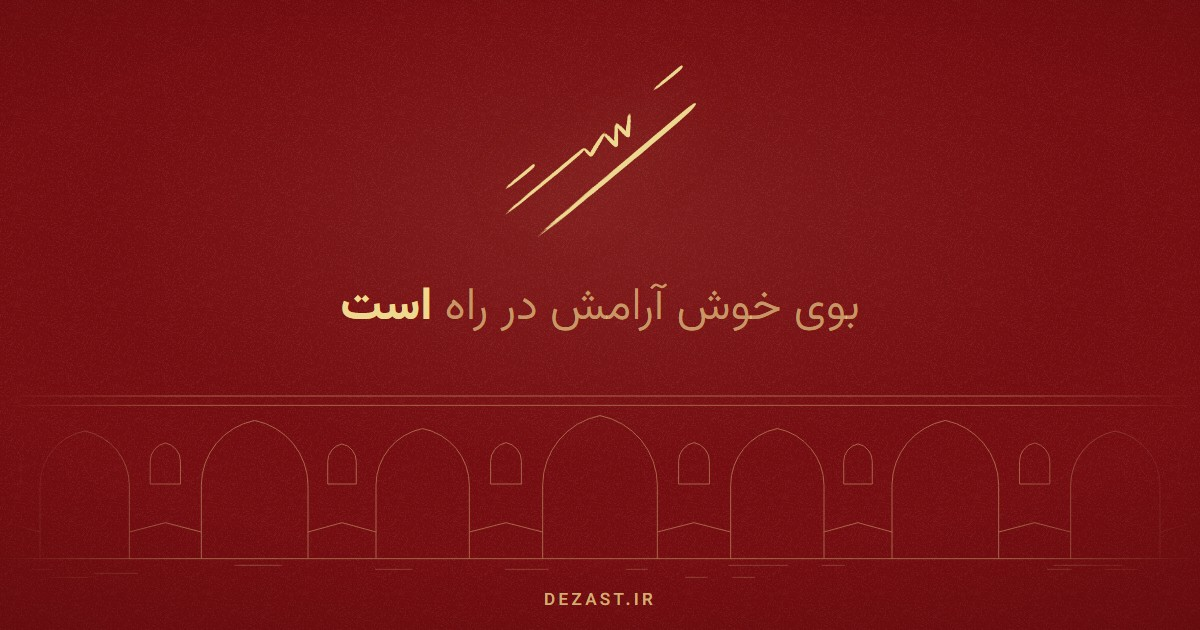
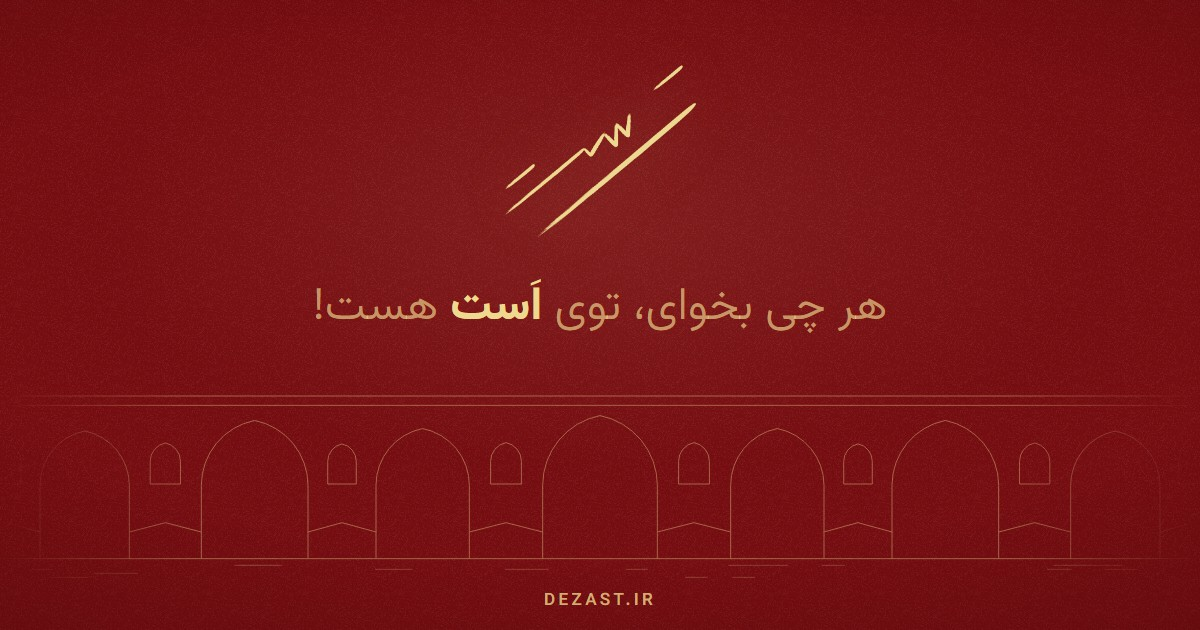
Change slogan to «هر چی بخوای، توی اَست هست!»
Brand word is now mid-sentence, so it is the highlighted word; preview image regenerated.

Changed region(s): [[0.2467, 0.4524, 0.74, 0.5429]]

diff --git a/index.html b/index.html
@@ -3,8 +3,8 @@
 <head>
   <meta charset="utf-8">
   <meta name="viewport" content="width=device-width, initial-scale=1, viewport-fit=cover">
-  <title>است | بوی خوش آرامش در راه است</title>
-  <meta name="description" content="است؛ بهزودی در دزفول. بوی خوش آرامش در راه است — منتظر باشید.">
+  <title>است | هر چی بخوای، توی اَست هست!</title>
+  <meta name="description" content="است؛ بهزودی در دزفول. هر چی بخوای، توی اَست هست! منتظر باشید.">
   <meta name="robots" content="index, follow, max-image-preview:large">
   <meta name="theme-color" content="#770e12">
   <link rel="canonical" href="https://dezast.ir/">
@@ -12,15 +12,15 @@
   <meta property="og:type" content="website">
   <meta property="og:site_name" content="است">
   <meta property="og:url" content="https://dezast.ir/">
-  <meta property="og:title" content="است | بوی خوش آرامش در راه است">
+  <meta property="og:title" content="است | هر چی بخوای، توی اَست هست!">
   <meta property="og:description" content="بهزودی در دزفول — dezast.ir">
   <meta property="og:image" content="https://dezast.ir/assets/og.jpg">
   <meta property="og:image:width" content="1200">
   <meta property="og:image:height" content="630">
-  <meta property="og:image:alt" content="لوگوی است و شعار «بوی خوش آرامش در راه است» با طرح پل قدیم دزفول">
+  <meta property="og:image:alt" content="لوگوی است و شعار «هر چی بخوای، توی اَست هست!» با طرح پل قدیم دزفول">
   <meta property="og:locale" content="fa_IR">
   <meta name="twitter:card" content="summary_large_image">
-  <meta name="twitter:title" content="است | بوی خوش آرامش در راه است">
+  <meta name="twitter:title" content="است | هر چی بخوای، توی اَست هست!">
   <meta name="twitter:description" content="بهزودی در دزفول — dezast.ir">
   <meta name="twitter:image" content="https://dezast.ir/assets/og.jpg">
 
@@ -40,7 +40,7 @@
         "name": "است",
         "alternateName": "dezast",
         "inLanguage": "fa-IR",
-        "description": "بوی خوش آرامش در راه است — بهزودی در دزفول."
+        "description": "هر چی بخوای، توی اَست هست! بهزودی در دزفول."
       },
       {
         "@type": "Organization",
@@ -173,11 +173,11 @@
     .slogan .w2 { animation-delay: .82s; }
     .slogan .w3 { animation-delay: .94s; }
     .slogan .w4 { animation-delay: 1.06s; }
-    .slogan .w5 { animation-delay: 1.18s; }
+    .slogan .w5 { animation-delay: 1.55s; }
     .slogan .ast {
       color: var(--gold);
       font-weight: 700;
-      animation-delay: 1.45s;
+      animation-delay: 1.3s;
     }
     @keyframes rise { to { opacity: 1; transform: none; } }
     @keyframes fade { to { opacity: 1; } }
@@ -304,13 +304,13 @@
         <img class="logo" src="assets/logo-ast.png" width="681" height="616" alt="است">
         <span class="sr-only">است | dezast</span>
       </h1>
-      <p class="slogan" aria-label="بوی خوش آرامش در راه است">
-        <span class="w1">بوی</span>
-        <span class="w2">خوش</span>
-        <span class="w3">آرامش</span>
-        <span class="w4">در</span>
-        <span class="w5">راه</span>
-        <span class="ast">است</span>
+      <p class="slogan" aria-label="هر چی بخوای، توی اَست هست!">
+        <span class="w1">هر</span>
+        <span class="w2">چی</span>
+        <span class="w3">بخوای،</span>
+        <span class="w4">توی</span>
+        <span class="ast">اَست</span>
+        <span class="w5">هست!</span>
       </p>
     </div>
 
